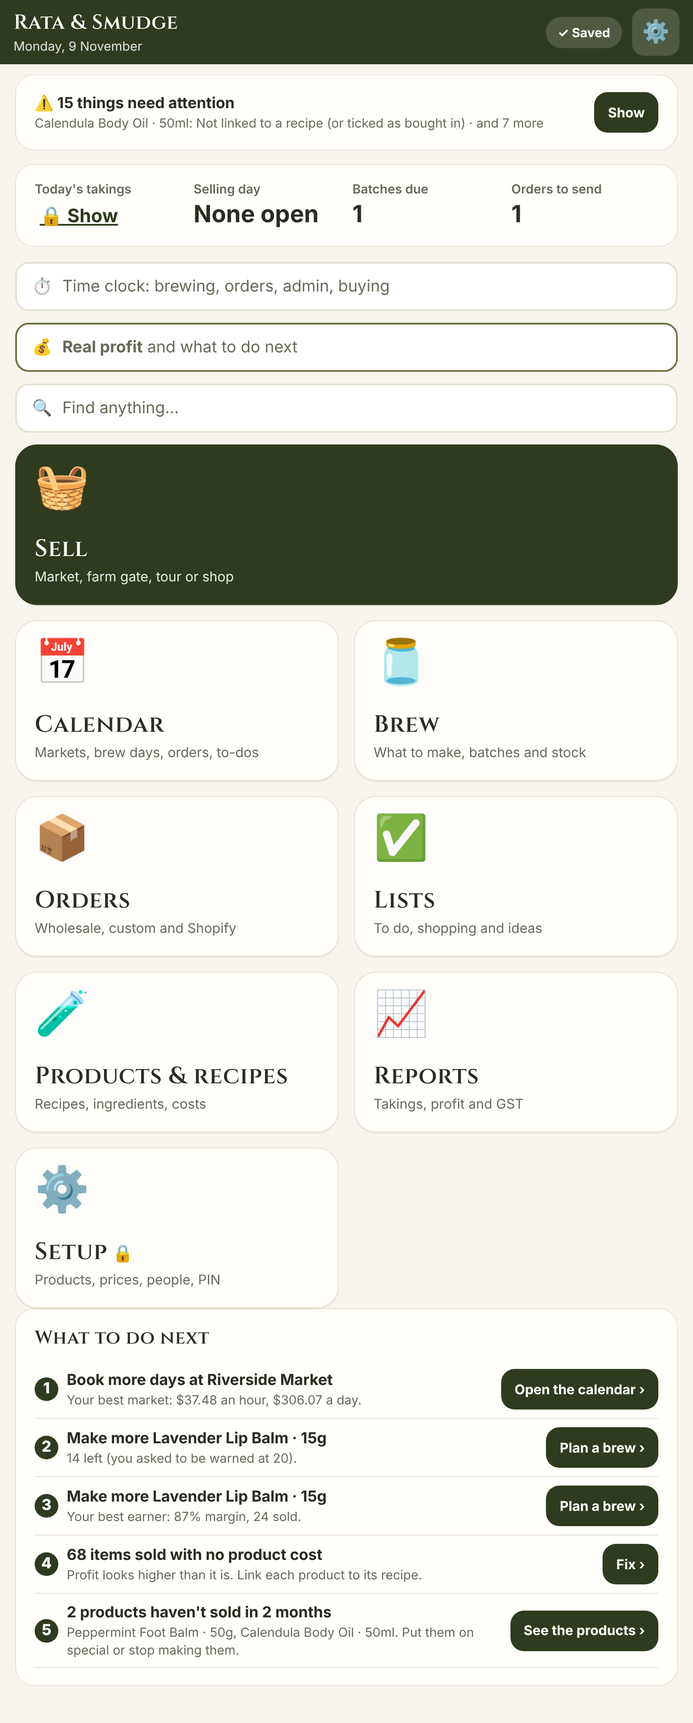
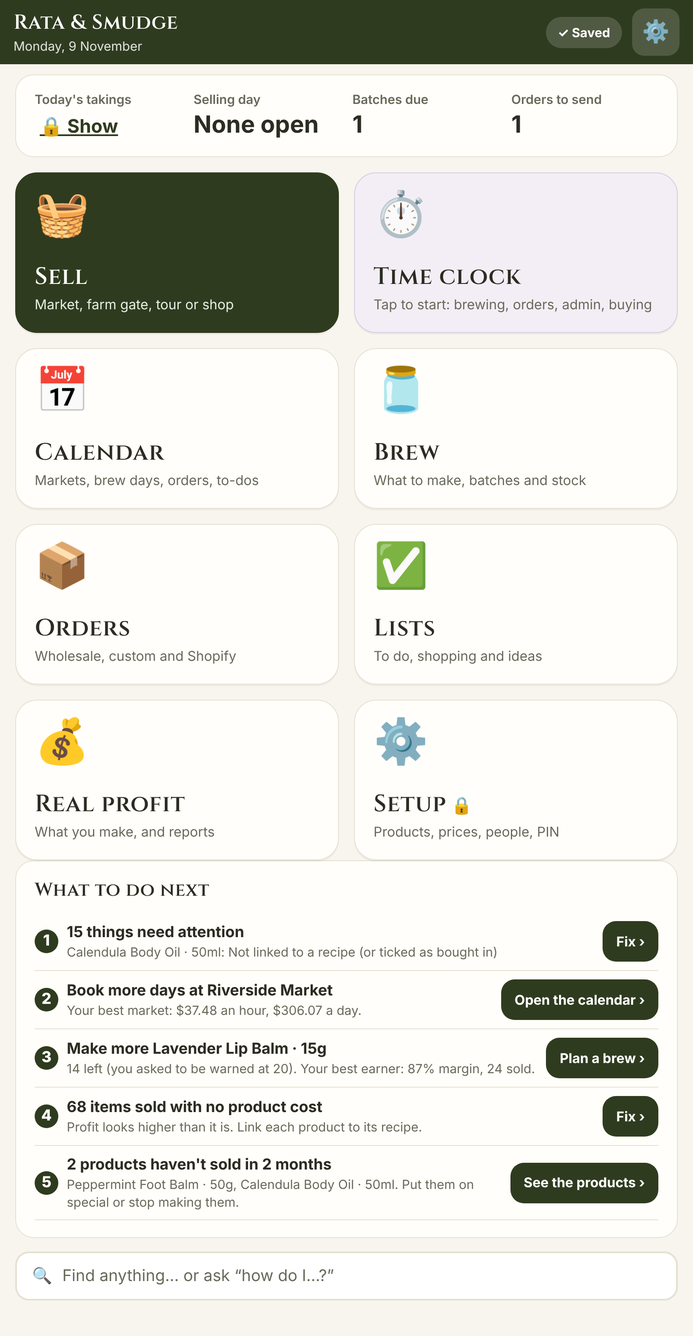
Mum's quick guide: screenshots from demo data, guide layout and PDF with bookmarks
Claude-Session: https://claude.ai/code/session_012Xb5TRGTc9WxHnqkxwPuzD

diff --git a/scripts/guide/guide.css b/scripts/guide/guide.css
@@ -1,0 +1,62 @@
+@font-face{font-family:"Cinzel";src:url("../../src/fonts/cinzel-600.woff2") format("woff2");font-weight:600}
+@page{size:A4;margin:0}
+:root{--g:#2f3b1f;--g2:#6b703e;--lav:#806092;--cream:#f7f5ee;--ink:#2b2c22;--muted:#686a5a;--line:#e5e1d2;--amber:#fbf1d8}
+*{box-sizing:border-box}
+html,body{margin:0;padding:0;background:#fff;color:var(--ink);font-family:Inter,Helvetica,Arial,sans-serif;font-size:9.6pt;line-height:1.42;-webkit-print-color-adjust:exact;print-color-adjust:exact}
+.page{width:210mm;height:297mm;position:relative;overflow:hidden;page-break-after:always;break-after:page;background:#fff}
+.page:last-child{page-break-after:auto;break-after:auto}
+/* the green bar on every page: a link to each section */
+.bar{position:absolute;left:0;right:0;top:0;height:12mm;background:var(--g);display:flex;align-items:center;gap:3.2mm;padding:0 9mm;color:#fff}
+.bar .mark{font-family:Cinzel,Georgia,serif;font-weight:600;font-size:10.5pt;margin-right:auto;letter-spacing:.02em}
+.bar a{color:#dfe7d6;text-decoration:none;font-size:7.6pt;font-weight:600}
+.body{position:absolute;left:15mm;right:15mm;top:19mm;bottom:15mm}
+footer{position:absolute;left:15mm;right:15mm;bottom:7mm;display:flex;justify-content:space-between;font-size:7.2pt;color:var(--muted);border-top:.3mm solid var(--line);padding-top:2mm}
+h1{font-family:Cinzel,Georgia,serif;font-weight:600;color:var(--g);font-size:19pt;margin:0 0 4mm;letter-spacing:.01em;line-height:1.15}
+h1 .num{color:var(--lav);font-family:Inter,sans-serif;font-weight:300;margin-right:3mm;font-size:20pt}
+h2{font-size:12pt;color:var(--g);margin:5mm 0 2mm}
+h2.first{margin-top:0}
+p{margin:0 0 2.2mm}
+a{color:#3d6b2a;text-decoration:underline;text-underline-offset:.4mm}
+.note{color:var(--muted);font-size:8.6pt}
+ul.dots{margin:0 0 3mm;padding-left:4.5mm}ul.dots li{margin:.8mm 0}
+ol.steps{counter-reset:s;list-style:none;margin:0 0 3mm;padding:0}
+ol.steps li{counter-increment:s;position:relative;padding:1.2mm 0 1.2mm 8.5mm;border-bottom:.25mm solid var(--line)}
+ol.steps li::before{content:counter(s);position:absolute;left:0;top:1.3mm;width:5.6mm;height:5.6mm;border-radius:50%;background:var(--g);color:#fff;font-weight:700;font-size:8pt;display:flex;align-items:center;justify-content:center}
+table{width:100%;border-collapse:collapse;margin:1mm 0 3mm;font-size:8.8pt}
+th{background:var(--g);color:#fff;text-align:left;padding:1.8mm 2.4mm;font-weight:600}
+td{padding:1.8mm 2.4mm;border-bottom:.25mm solid var(--line);vertical-align:top}
+tbody tr:nth-child(even) td{background:#fbfaf5}
+table.small{font-size:8.3pt}
+table.go td:last-child{white-space:nowrap;width:68mm}
+table.situ td:first-child{width:52mm}
+table.plainhead thead{display:none}table.plainhead td:first-child{width:46mm}
+.box{border-radius:2mm;padding:2.6mm 3.4mm;margin:2mm 0 3mm;font-size:8.8pt}
+.box.tip{background:#eef3e8;border-left:1.2mm solid var(--g2)}
+.box.warn{background:var(--amber);border-left:1.2mm solid #c9952b}
+.two{display:grid;gap:7mm;margin-bottom:4mm;align-items:start}
+figure.shot{margin:0;overflow:hidden;border:.3mm solid #d8d4c4;border-radius:2.5mm;box-shadow:0 .6mm 1.6mm rgba(0,0,0,.08);background:var(--cream)}
+figure.shot img{width:100%;display:block}
+figcaption{font-size:7.4pt;color:var(--muted);margin-top:1.2mm;text-align:center}
+.blank{display:inline-block;width:40mm;border-bottom:.3mm solid #999;height:4mm}
+/* contents and index */
+h1.plain{margin-bottom:6mm}
+ul.toc{list-style:none;margin:0;padding:0}
+ul.toc li a{display:flex;align-items:baseline;gap:2mm;color:var(--ink);text-decoration:none;padding:1.6mm 0;font-size:11pt;font-weight:600}
+ul.toc li.sub a{padding-left:8mm;font-size:9.6pt;font-weight:400}
+ul.toc .dots{flex:1;border-bottom:.3mm dotted #b9b4a3;transform:translateY(-1mm)}
+ul.toc .pg{color:var(--g);min-width:6mm;text-align:right}
+.idx{columns:3;column-gap:8mm;font-size:8.6pt}
+.idx a{display:flex;justify-content:space-between;color:var(--ink);text-decoration:none;padding:.7mm 0;border-bottom:.2mm dotted #ccc;break-inside:avoid}
+.idx .pg{color:var(--g);font-weight:700}
+/* cover, like the building user guide: a green panel and a cream base */
+.cover .panel{position:absolute;left:0;right:0;top:0;height:232mm;background:var(--g);color:#fff;padding:22mm 18mm}
+.cover .logo{width:44mm;height:44mm;border-radius:6mm;display:block;margin-bottom:24mm}
+.cover .title{font-family:Cinzel,Georgia,serif;font-size:40pt;line-height:1.08;font-weight:600}
+.cover .rule{width:24mm;height:.7mm;background:#c8b8d6;margin:9mm 0}
+.cover .sub{font-size:13pt;line-height:1.5}
+.cover .for{position:absolute;left:18mm;bottom:16mm;color:#cfd8c6;font-size:10pt;line-height:1.5}
+.cover .base{position:absolute;left:0;right:0;bottom:0;height:65mm;background:var(--cream);padding:14mm 18mm;display:flex;justify-content:space-between;font-size:9.6pt}
+.cover .base .r{text-align:right}
+.cover .lbl{font-size:7.4pt;letter-spacing:.12em;color:var(--muted)}
+.cover .lbl.rev{color:#9a6a00;font-weight:700}
+.cover .bar,.cover footer{display:none}

diff --git a/scripts/guide/capture.js b/scripts/guide/capture.js
@@ -72,9 +72,13 @@ const IPAD_UA = 'Mozilla/5.0 (Macintosh; Intel Mac OS X 10_15_7) AppleWebKit/605
   // ---------- screens ----------
   await shot('01-home', { fullPage: true });
   await page.evaluate(() => { stack = ['home', 'sell']; render(); }); await page.waitForSelector('#sGo'); await shot('02-sell-start');
-  await page.evaluate(() => lsSet('rs.servedBy', 'Fiona')); await page.fill('#sName', 'Riverside Market'); await page.click('#sGo'); await page.waitForSelector('[data-add]');
+  await page.evaluate(() => lsSet('rs.servedBy', 'Fiona')); await page.evaluate(() => render()); await page.waitForSelector('[data-pl]');
+  await page.locator('[data-pl]', { hasText: 'Riverside Market' }).click(); await page.waitForTimeout(100); await shot('02-sell-start');
+  await page.click('#sGo'); await page.waitForSelector('#cY, [data-add]'); if (await page.$('#cY')) await page.click('#cY'); await page.waitForSelector('[data-add]');
   for (const n of ['Lavender Lip Balm', 'Lavender Lip Balm', 'Rose Hand Cream', 'Kawakawa Salve']) await page.evaluate(n => document.querySelector('[data-add="' + S.products.find(p => p.name === n).id + '"]').click(), n);
   await shot('03-till');
+  await page.evaluate(() => discountReview({ kind: 'pct', value: 10, pid: '', reason: 'regular customer' }, SYNC.me())); await page.waitForSelector('#drOk'); await modalShot('04b-discount-check');
+  await closeAll(); await page.evaluate(() => { cartDisc = null; saveCart(); render(); });
   await page.click('[data-pay="eftpos"]'); await page.waitForTimeout(300); await shot('04-pay');
   await closeAll(); await page.evaluate(() => { stack = ['home', 'sell']; render(); }); await page.waitForTimeout(200);
   await page.evaluate(() => { const d = S.sessions.find(s => s.status === 'open'), me = SYNC.me(); [['Lavender Lip Balm', 2, 'cash'], ['Rose Hand Cream', 1, 'eftpos'], ['Herbal Gift Box', 1, 'eftpos'], ['Kawakawa Salve', 2, 'cash'], ['Calendula Healing Balm', 1, 'eftpos']].forEach(([n, q, m], i) => { const p = S.products.find(x => x.name === n), t = p.price * q;
@@ -91,7 +95,9 @@ const IPAD_UA = 'Mozilla/5.0 (Macintosh; Intel Mac OS X 10_15_7) AppleWebKit/605
   await page.evaluate(() => { stack = ['home', 'orders']; render(); }); await page.waitForTimeout(300); await shot('11-orders');
   await page.evaluate(() => { listTab = 'todo'; stack = ['home', 'lists']; render(); }); await page.waitForTimeout(300); await shot('12-todo');
   await page.evaluate(() => { listTab = 'shop'; render(); }); await page.waitForTimeout(300); await shot('13-shopping');
-  await page.evaluate(() => { stack = ['home', 'clock']; render(); clockStart('brewing'); render(); }); await page.waitForTimeout(300); await shot('14-clock');
+  await page.evaluate(() => { stack = ['home']; clockStart('brewing'); const r = clockRunning(); r.start = Date.now() - 83 * 60e3; save(); render(); }); await page.waitForTimeout(400); await page.evaluate(() => { const r = clockRunning(); r.start = Date.now() - 83 * 60e3; render(); }); await page.waitForTimeout(300); await shot('14a-home-clock', { clip: { x: 0, y: 0, width: 820, height: 700 } });
+  await page.evaluate(() => clockSheet()); await page.waitForSelector('#cjStop'); await modalShot('14b-clock-switch');
+  await closeAll(); await page.evaluate(() => { stack = ['home', 'clock']; render(); }); await page.waitForTimeout(300); await shot('14-clock');
   await page.evaluate(() => { const r = clockRunning(); if (r) clockStop(r, true); profPeriod = 'month'; stack = ['home', 'profit']; render(); }); await page.waitForTimeout(400); await shot('15-profit', { fullPage: true });
   await page.evaluate(() => { stack = ['home']; render(); openSearch(); }); await page.waitForSelector('#sQ'); await page.fill('#sQ', 'how do I change a price'); await page.waitForTimeout(300); await modalShot('16-help');
   await closeAll(); await page.evaluate(() => { setupOpen = true; stack = ['home', 'setup']; render(); }); await page.waitForTimeout(300); await shot('17-setup');

diff --git a/scripts/guide/make-pdf.js b/scripts/guide/make-pdf.js
@@ -1,0 +1,12 @@
+// Prints guide.html to an A4 PDF with bookmarks (the headings) and working links.
+const path = require('path'), { chromium } = require('playwright');
+(async () => {
+  const b = await chromium.launch(), p = await b.newPage();
+  await p.goto('file://' + path.join(__dirname, 'guide.html'), { waitUntil: 'networkidle' });
+  await p.evaluate(() => document.fonts.ready);
+  const over = await p.evaluate(() => [...document.querySelectorAll('.page')].map((pg, i) => { const bd = pg.querySelector('.body'); return bd && bd.scrollHeight > bd.clientHeight + 2 ? (i + 1) + ':' + (bd.scrollHeight - bd.clientHeight) : null; }).filter(Boolean));
+  if (over.length) console.log('PAGES TOO FULL (page:px over):', over.join(' '));
+  const out = process.argv[2] || path.join(__dirname, 'Rata-and-Smudge-app-quick-guide.pdf');
+  await p.pdf({ path: out, format: 'A4', printBackground: true, preferCSSPageSize: true, outline: true, tagged: true });
+  console.log('saved', out); await b.close();
+})();

diff --git a/scripts/guide/make.py b/scripts/guide/make.py
@@ -14,7 +14,7 @@ def page(body, cls=''):
     pages.append(f'<section class="page {cls}">{nav}<div class="body">{body}</div>{foot}</section>')
 def shot(name, h, cap='', w=None):
     st = f'height:{h}mm' + (f';width:{w}mm' if w else '')
-    return f'<figure class="shot" style="{st}"><img src="shots/{name}.png"></figure>' + (f'<figcaption>{cap}</figcaption>' if cap else '')
+    return f'<div><figure class="shot" style="{st}"><img src="shots/{name}.png"></figure>' + (f'<figcaption>{cap}</figcaption>' if cap else '') + '</div>'
 def steps(items): return '<ol class="steps">' + ''.join(f'<li>{i}</li>' for i in items) + '</ol>'
 def table(head, rows, cls=''):
     return f'<table class="{cls}"><thead><tr>' + ''.join(f'<th>{h}</th>' for h in head) + '</tr></thead><tbody>' + ''.join('<tr>' + ''.join(f'<td>{c}</td>' for c in r) + '</tr>' for r in rows) + '</tbody></table>'
@@ -63,28 +63,27 @@ page(h1('1', 'How to use this guide', 'how') + '''<p>This guide shows how to do 
     ['See what I’m really making, and what to do next', L('profit', '7 Real profit')],
     ['Tell the app something quickly while driving', L('assistant', '8 The assistant')],
     ['Change a price, add a product or a person', L('setup', '9 Setup')],
-    ['Sort out a problem', L('whatif', '10 What to do if…')]], 'go') + tip('<b>Nothing breaks it.</b> To practise, use <b>Owner test mode</b> (Setup → View as → Owner test mode). Nothing is saved there. Tap the purple bar to come back.'))
+    ['Sort out a problem', L('whatif', '10 What to do if…')]], 'go') + tip('<b>Nothing breaks it.</b> To practise, use <b>Owner test mode</b> (Setup → View as → Owner test mode). Nothing is saved there. The top bar turns purple: tap <b>Go back</b> to return.'))
 
 # ---------- 2 home ----------
 page(h1('2', 'The home screen at a glance', 'homescreen') + two(shot('01-home', 228, 'The home screen (demo data)', 92), '''
 <p>Everything starts here. Tap <b>⚙</b> or <b>‹ Back</b> to get back to it from anywhere.</p>''' + table(['Part', 'What it does'], [
-    ['<b>⚠ Needs attention</b>', 'Missing information that makes a number wrong. Tap Show, then Fix.'],
+    ['<b>Top right</b>', 'While the time clock runs, its job and time (for example 🫙 1:23). Tap it to switch or stop. ✓ Saved shows everything is saved.'],
     ['<b>Today strip</b>', 'Today’s takings (tap 🔒 Show and your PIN), the selling day, batches and orders due.'],
     ['<b>🎙 Talk · Type · Photo · Drive</b>', 'The assistant (shows once it’s set up). See ' + L('assistant', 'page 8') + '.'],
-    ['<b>⏱ Time clock</b>', 'Start and stop your time on a job. See ' + L('time', 'page 7') + '.'],
-    ['<b>💰 Real profit</b>', 'What you really make, and what to do next.'],
-    ['<b>🔍 Find anything</b>', 'Products, markets, settings, and “how do I…?” answers.'],
-    ['<b>Tiles</b>', 'Sell, Calendar, Brew, Orders, Lists, Products &amp; recipes, Reports, Setup. Setup has a 🔒: it asks for your PIN.'],
-    ['<b>What to do next</b>', 'The five most useful things to do, each with a button that takes you there.']], 'small'), 92))
+    ['<b>🧺 Sell</b> and <b>⏱ Time clock</b>', 'The two big buttons. The clock tile turns purple and shows the job and time while it runs. See ' + L('time', 'page 7') + '.'],
+    ['<b>Tiles</b>', 'Calendar, Brew (with Recipes &amp; ingredients 🔒), Orders, Lists, 💰 Real profit (with Reports), Setup 🔒 (asks for your PIN).'],
+    ['<b>What to do next</b>', 'The five most useful things to do, each with a button that takes you there, including anything that needs attention.'],
+    ['<b>🔍 Find anything</b>', 'Products, markets, settings, and “how do I…?” answers.']], 'small'), 92))
 
 # ---------- 3 selling ----------
-page(h1('3', 'Selling at a market', 'selling') + two(shot('02-sell-start', 125, 'Start selling', 80), '<h2 class="first">Start a selling day</h2>' + steps([
+page(h1('3', 'Selling at a market', 'selling') + two(shot('02-sell-start', 108, 'Start selling', 80), '<h2 class="first">Start a selling day</h2>' + steps([
     'Home → <b>🧺 Sell</b>.',
     'If the market is on today’s calendar, tap it under <b>📅 On the calendar today</b>. Its name and float fill in.',
-    'Otherwise choose <b>Market, Farm gate, Garden tour or Shop</b>, and type or tap the name.',
+    'Otherwise choose <b>Market, Farm gate, Garden tour or Shop</b>, and tap a <b>saved market</b>. A new one: type its name and you’re asked for its details (address, float, stall fee) first.',
     'Check the <b>cash float</b> in the tin.',
-    'Tap <b>who is serving</b>, then <b>Start selling</b>.']) + tip('The screen stays on while the till is open.'), 80)
-    + '<h2>Sell in two taps</h2>' + two(shot('03-till', 125, 'The till: tap products to add them', 80), steps([
+    'Tap <b>who is serving</b>, then <b>Start selling</b>.']) + tip('Helpers can only open today’s markets where they’re ticked on the calendar. The screen stays on while the till is open.'), 80)
+    + '<h2>Sell in two taps</h2>' + two(shot('03-till', 112, 'The till: tap products to add them', 80), steps([
     'Tap each product. Tap again for two. The total shows at the bottom.',
     'To change a number, tap <b>Show items</b> and use <b>−</b> and <b>+</b>.',
     'Tap <b>Cash</b>, <b>EFTPOS</b> or <b>Other</b> (bank transfer and so on).',
@@ -94,18 +93,19 @@ page(h1('3', 'Selling at a market', 'selling') + two(shot('02-sell-start', 125, 
 page('<h2 id="pay" class="first">Taking payment, discounts and mistakes</h2>' + two(shot('04-pay', 140, 'Check the order before payment', 80), table(['To…', 'Do this'], [
     ['Take cash', 'Cash → Take payment → tap the notes given (or Exact) → the change to give shows big.'],
     ['Take EFTPOS', 'Put the total on your own terminal first. When it’s approved there, tap EFTPOS → Take payment → confirm.'],
-    ['Give a discount', '<b>🏷 Add a discount 🔒</b>: a dollar amount or a percentage. It needs an owner’s or manager’s PIN, and goes in the approvals log.'],
+    ['Give a discount', '<b>🏷 Discount 🔒</b>: on the whole sale or one item, % or $ (or Free). After the PIN, the approver sees the cost and margin (page ' + L('pay', 'below') + ').'],
+    ['Give something away', 'Discount it 100% (Free). The payment buttons become <b>🎁 Give away</b>: it’s recorded as a gift.'],
     ['Undo a sale just made', '<b>↩ Undo last sale</b> shows for a minute after each sale.'],
     ['Fix an older sale', '<b>🧾 Sales</b> → tap the sale → <b>Void</b>. Refund the cash or the card first. It needs a PIN.'],
     ['Add money to the float', '<b>💵 Float</b> → type the amount added.'],
     ['Let a helper sell', '<b>🤝 Hand to a helper</b>: the till locks to selling only, until a PIN unlocks it.']], 'small'), 80)
-    + tip('<b>Selling below cost</b> stops the sale and asks for an owner’s PIN. A sale that would give a product away for $0 can’t be finished yet: Clear it for now (being fixed in the next update).', 'warn'))
+    + two(shot('04b-discount-check', 92, 'Checking a discount (approver only)', 80), '<h2 class="first">Checking a discount</h2><p>After the PIN, the person approving sees what the items cost to make, the margin before and after, and a red flag if it’s below cost. One tap sets <b>Break even</b> or the <b>lowest margin</b> (20%, changeable in Setup), or keep it <b>as asked</b>. Do this on your own screen: helpers never see these figures.</p>' + tip('Selling below cost is always recorded in the approvals log, with who approved it.', 'warn'), 80))
 
-page(h1('', 'End of the day and the check-in', 'endday') + two(shot('05-end-day', 150, 'End of the day: count the tin', 80), steps([
+page(h1('', 'End of the day and the check-in', 'endday') + two(shot('05-end-day', 118, 'End of the day: count the tin', 80), steps([
     'On the till, tap <b>🏁 End the day</b> and enter your PIN.',
     'Check the <b>EFTPOS</b> total against the terminal’s settlement.',
     'Count the cash in the tin and type the total. It shows <b>✓ The cash is right</b>, or over or short.',
-    'Tap <b>Close the day</b>.']), 80) + two(shot('06-checkin', 150, 'The check-in, all filled in already', 80), '<h2 class="first">The one-minute check-in</h2>' + steps([
+    'Tap <b>Close the day</b>.']), 80) + two(shot('06-checkin', 118, 'The check-in, all filled in already', 80), '<h2 class="first">The one-minute check-in</h2>' + steps([
     'It opens straight after Close the day.',
     'Tap how busy it was. The weather is already ticked from the forecast.',
     'Check the stall fee, and your time: travel there, set up, pack up, drive home, unpack the car. It shows when you’ll be done.',
@@ -113,19 +113,19 @@ page(h1('', 'End of the day and the check-in', 'endday') + two(shot('05-end-day'
     'Tap <b>Save</b>, or Skip.']) + tip('The check-in makes Real profit right: your real hours and costs for each market.'), 80))
 
 # ---------- 4 calendar ----------
-page(h1('4', 'The calendar and market days', 'calendar') + two(shot('07-calendar', 115, 'Month view. Swipe for the next month.', 80), steps([
+page(h1('4', 'The calendar and market days', 'calendar') + two(shot('07-calendar', 105, 'Month view. Swipe for the next month.', 80), steps([
     'Home → <b>📅 Calendar</b>. Swipe left or right for the next week or month; <b>Today</b> comes back.',
     'Tap a day to see what’s on, then <b>Add on…</b> to add to it.',
     'Choose <b>Market, Brew day, Order due</b> or <b>Other</b>.',
     'For a market, pick it under <b>Which market?</b> (or <b>＋ a new one</b>), then the date and start and finish times.',
     'Set <b>Repeats</b> for a weekly or fortnightly market.',
     'Tick <b>who’s on the stall</b> and when to be reminded, then <b>Save</b>.']), 80)
-    + '<h2>The whole market day</h2>' + two(shot('08-market-entry', 128, 'A market entry with the whole day', 80), '''<p>Each market works out <b>when to leave home and when you’ll be back</b>, from:</p><ul class="dots">
+    + '<h2>The whole market day</h2>' + two(shot('08-market-entry', 122, 'A market entry with the whole day', 80), '''<p>Each market works out <b>when to leave home and when you’ll be back</b>, from:</p><ul class="dots">
 <li><b>Travel there</b> and <b>travel home</b>: the drive, worked out by road from the home address.</li><li><b>Set up</b> and <b>pack down</b>: your usual times, which each market then remembers.</li></ul>
 <p>Change any of the minutes and the leave-home time moves. The forecast weather shows here too, up to 16 days ahead.</p>''' + tip('The evening before, the reminder says when to leave home.'), 80))
 
 # ---------- 5 brew ----------
-page(h1('5', 'Brew and stock', 'brew') + two(shot('09-stock', 120, 'Stock: at home, and out with you', 80), '<h2 class="first">Stock</h2>' + table(['To…', 'Do this'], [
+page(h1('5', 'Brew and stock', 'brew') + two(shot('09-stock', 116, 'Stock: at home, and out with you', 80), '<h2 class="first">Stock</h2>' + table(['To…', 'Do this'], [
     ['See what’s left', 'Brew → <b>Stock</b>. Red means none at home; amber means at or below your warning level.'],
     ['Pack for a market', '<b>🧺 Pack for…</b>: each product is filled in from last time there. Change and tap Done. They move to “Out with me”.'],
     ['Count the stock', '<b>🔢 Count stock</b>: type what’s really there.'],
@@ -157,19 +157,18 @@ page('<h2 id="suppliers" class="first">Shopping and ordering from a supplier</h2
     'When it arrives, Brew → Stock → <b>🚚 On order</b> → <b>📦 Arrived</b>. Untick anything missing, change any amount, add the price, and tap <b>Into stock</b>.']) + tip('Ticking off something you bought at the shop asks what you really bought and the price, so costs stay right.'), 80))
 
 # ---------- 7 time & profit ----------
-page(h1('7', 'The time clock', 'time') + two(shot('14-clock', 125, 'The time clock, running on Brewing', 80), steps([
-    'Home → <b>⏱ Time clock</b>.',
-    'Tap what you’re doing: <b>🫙 Brewing, 📦 Orders and packing, 🗂 Admin</b> or <b>🛒 Buying supplies</b>. It starts.',
-    'A bar on the home screen shows it running. Tap another job to switch, or <b>Stop</b>.',
-    'Forgot? <b>＋ Add time I forgot to clock</b>.',
-    'After 10 hours it asks if you’re still working.']) + tip('Markets aren’t clocked: their hours come from the calendar and the check-in. Helpers’ hours are kept with their pay in Reports → Costs.')
-    + '<p class="note">Coming next: the clock becomes a big tile with the job’s icon, and shows on every screen.</p>', 80)
+page(h1('7', 'The time clock', 'time') + two(shot('14b-clock-switch', 88, 'Tap the tile or the top-right time', 80), steps([
+    'Home → tap the <b>⏱ Time clock</b> tile.',
+    'Tap what you’re doing: <b>🫙 Brewing</b> (picking and drying too), <b>📦 Orders and packing, 🗂 Admin</b> (calls, emails, social media) or <b>🛒 Buying supplies</b>. It starts.',
+    'The tile turns purple with the job and time, and the time shows top right on every screen.',
+    'To change job, tap either and choose another: it asks “Switch to…?”. To finish, <b>⏹ Stop the clock</b>.',
+    'Forgot? Time clock → <b>See my hours</b> → <b>＋ Add time I forgot to clock</b>. After 10 hours it asks if you’re still working.']) + tip('Markets aren’t clocked: their hours come from the calendar and the check-in. Helpers’ hours are kept with their pay in Reports → Costs.'), 80)
     + '<h2 id="profit">Real profit</h2>' + two(shot('15-profit', 120, 'Real profit (demo figures)', 80), '''<p>Home → <b>💰 Real profit</b>. Choose This week, month, last month or this year.</p><ul class="dots">
 <li><b>Real profit</b>: sales (ex GST) less stock, stall fees, fuel and car, helpers and other costs.</li>
 <li><b>An hour</b>: that profit for each hour you put in. ✅ worth it, 🟡 borderline, 🔴 losing money.</li>
 <li><b>What to do next</b>: tap the button beside each.</li>
 <li><b>How sure are these numbers?</b> Each gap has a <b>Fix</b> button.</li>
-<li>Markets and products ranked, best first.</li></ul><p><b>Reports</b> (home → 📈) has takings by day, place and product, GST, costs, and a CSV for the accountant.</p>''', 80))
+<li>Markets and products ranked, best first.</li></ul><p><b>📈 Reports</b> (the button at the top of Real profit) has takings by day, place and product, GST, costs, and a CSV for the accountant.</p>''', 80))
 
 # ---------- 8 assistant ----------
 ex = [('“Matakana market next Saturday, 8 till 1, Sam’s coming”', 'A market on the calendar'), ('“Remind me to label the lip balm jars on Thursday”', 'A to-do for Thursday'),
@@ -191,30 +190,33 @@ page('<h2 id="privacy" class="first">How your information is kept safe</h2>' + t
     ['<b>Recordings</b>', 'Deleted once they’re worked out.'],
     ['<b>Cost</b>', 'Capped each month. If the cap is reached it stops until the next month.']], 'plainhead')
     + '<h2>PINs and the approvals log</h2><p>Your PIN is asked for before anything sensitive: Setup, seeing the takings, discounts, voids, closing the till. Anything approved by a manager or helper, or a PIN used by someone else, is recorded in <b>Setup → Approvals log</b> with who and when.</p>'
-    + tip('<b>Recipes are the business’s secret.</b> Only owners can open them; managers and helpers can’t.'))
+    + tip('<b>Recipes are the business’s secret.</b> Only owners can open them, with an owner’s PIN every time, and they lock again after 2 minutes. Managers and helpers can’t see them at all.'))
 
 # ---------- 9 setup ----------
-page(h1('9', 'Setup, people and PINs', 'setup') + two(shot('17-setup', 140, 'Setup (asks for your PIN)', 80), table(['To…', 'Go to Setup →'], [
+page(h1('9', 'Setup, people and PINs', 'setup') + two(shot('17-setup', 112, 'Setup (asks for your PIN)', 80), table(['To…', 'Go to Setup →'], [
     ['Change a price, add a product, put one on or off the till', '<b>Products and prices</b>'],
-    ['Add or change a recipe, ingredient or packaging', '<b>Products, recipes and ingredients</b>'],
+    ['Add or change an ingredient or packaging', 'Brew → <b>Recipes &amp; ingredients</b>'],
+    ['Open a recipe', 'Brew → <b>Recipes &amp; ingredients 🔒</b>: an owner’s PIN every time; it locks again after 2 minutes'],
     ['Add a market, shop or place; home address; usual set-up times', '<b>Markets and places</b>'],
     ['Set up a deal (for example 3 for $30)', '<b>Deals</b>'],
     ['Invite someone, make them a manager or helper', '<b>People</b>: type their Google (Gmail) address'],
     ['Set or change your PIN', '<b>Your PIN</b>'],
     ['See who approved what', '<b>Approvals log</b>'],
-    ['Practise, or see what a helper sees', '<b>View as</b> → a role, a person, or Owner test mode'],
+    ['Practise, or see what a helper sees', '<b>View as</b> → a role, a person, or Owner test mode (the top bar turns purple; tap <b>Go back</b>)'],
+    ['Lowest margin for discounts', '<b>Lowest margin on a discount</b> (20%)'],
     ['Daily briefing and summary emails', '<b>Summaries by email</b>'],
     ['Check-ins on or off', '<b>Check-ins</b>'],
     ['Notifications on this device', '<b>Notifications</b>']], 'small'), 80)
-    + two(shot('18-places', 110, 'Markets and places', 80), '<h2 class="first">Markets and places</h2><p>Add each market, the farm shop and each shop you supply, with its address, usual float and stall fee. With the home address in, the drive and its km are worked out by themselves (within about 5 minutes).</p>' + tip('Owners: the main owner can never be removed. Add helpers as <b>Helper</b>: they can sell and see stock, but no costs or takings.'), 80))
+    + ('<h2>Markets and places</h2><p>Add each market, the farm shop and each shop you supply, with its address, usual float and stall fee. With the home address in, the drive and its km are worked out by themselves (within about 5 minutes).</p>' + tip('Owners: the main owner can never be removed. Add helpers as <b>Helper</b>: they can sell and see stock, but no costs or takings.')))
 
 # ---------- 10 what if ----------
 page(h1('10', 'What to do if…', 'whatif') + table(['Situation', 'Action'], [
     ['<b>No internet at the market</b>', 'Keep selling. Sales are saved on the device and sent when the signal comes back. The top bar shows when it’s saved.'],
     ['<b>Wrong sale just now</b>', '<b>↩ Undo last sale</b> (for about a minute). After that, 🧾 Sales → the sale → Void, with a PIN.'],
     ['<b>Cash is short or over</b>', 'Count again. The difference is recorded at Close the day; it’s in the end-of-day email.'],
+    ['<b>The payment buttons are grey</b>', 'The total is $0 (a free item). Tap <b>🎁 Give away</b>, or remove the discount.'],
     ['<b>A product isn’t on the till</b>', '<b>🔍 Find</b> on the till. A product that’s off the till needs a PIN to sell.'],
-    ['<b>A helper can’t open the till</b>', 'Check they’re ticked on that day’s market in the calendar. Otherwise an owner or manager opens it.'],
+    ['<b>A helper can’t open the till</b>', 'Tick them on that day’s market in the calendar (Calendar → the market → who’s on the stall), or an owner or manager opens it.'],
     ['<b>Forgot my PIN</b>', 'On the PIN pad, tap “Forgot?”. Another owner resets it, or Tony can.'],
     ['<b>Left the till open</b>', 'You’ll get a reminder. Open the app, Sell → 🏁 End the day.'],
     ['<b>The assistant doesn’t answer</b>', 'Check the signal. If it says the monthly limit is reached, type it in instead. Setup shows if the helper is running.'],
@@ -223,7 +225,7 @@ page(h1('10', 'What to do if…', 'whatif') + table(['Situation', 'Action'], [
     ['<b>I want to try something safely</b>', 'Setup → View as → Owner test mode. Nothing is saved.']], 'situ'))
 
 # ---------- 11 help & index ----------
-idx = [('Afterpay', 'pay'), ('Approvals log', 'setup'), ('Assistant', 'assistant'), ('Calendar', 'calendar'), ('Check-in', 'endday'), ('Count stock', 'brew'), ('Deals', 'setup'),
+idx = [('Approvals log', 'setup'), ('Assistant', 'assistant'), ('Calendar', 'calendar'), ('Check-in', 'endday'), ('Count stock', 'brew'), ('Deals', 'setup'),
        ('Discount', 'pay'), ('EFTPOS', 'pay'), ('End of the day', 'endday'), ('Find anything', 'help'), ('Float', 'pay'), ('Fuel', 'assistant'), ('Helpers', 'setup'),
        ('Home screen', 'homescreen'), ('Ideas', 'orders'), ('Markets and places', 'setup'), ('Notifications', 'setup'), ('Orders', 'orders'), ('Owner test mode', 'setup'),
        ('Pack for a market', 'brew'), ('PIN', 'privacy'), ('Plan a brew', 'brew'), ('Prices', 'setup'), ('Privacy', 'privacy'), ('Real profit', 'profit'), ('Recipes', 'setup'),
